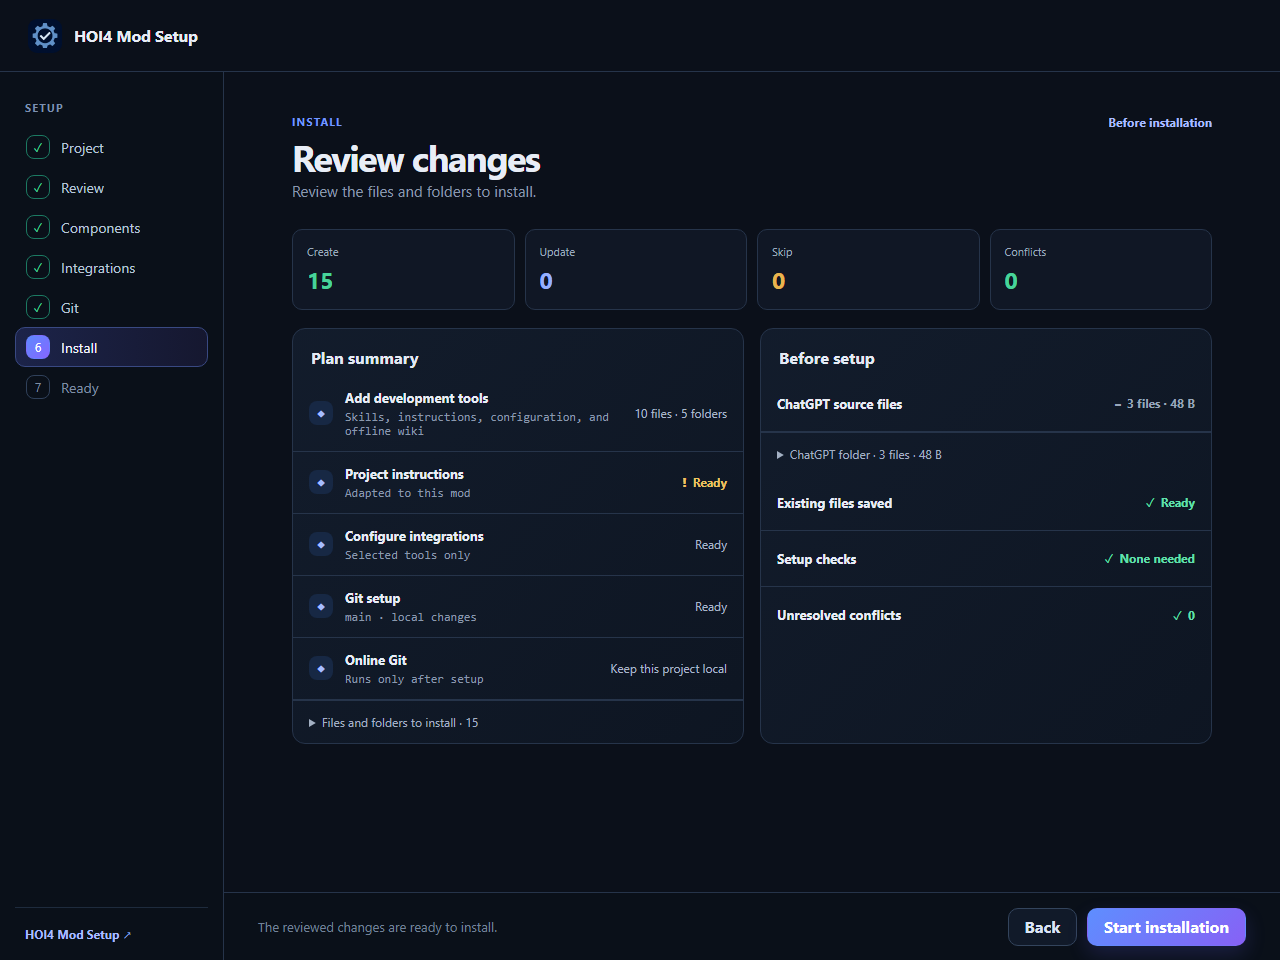
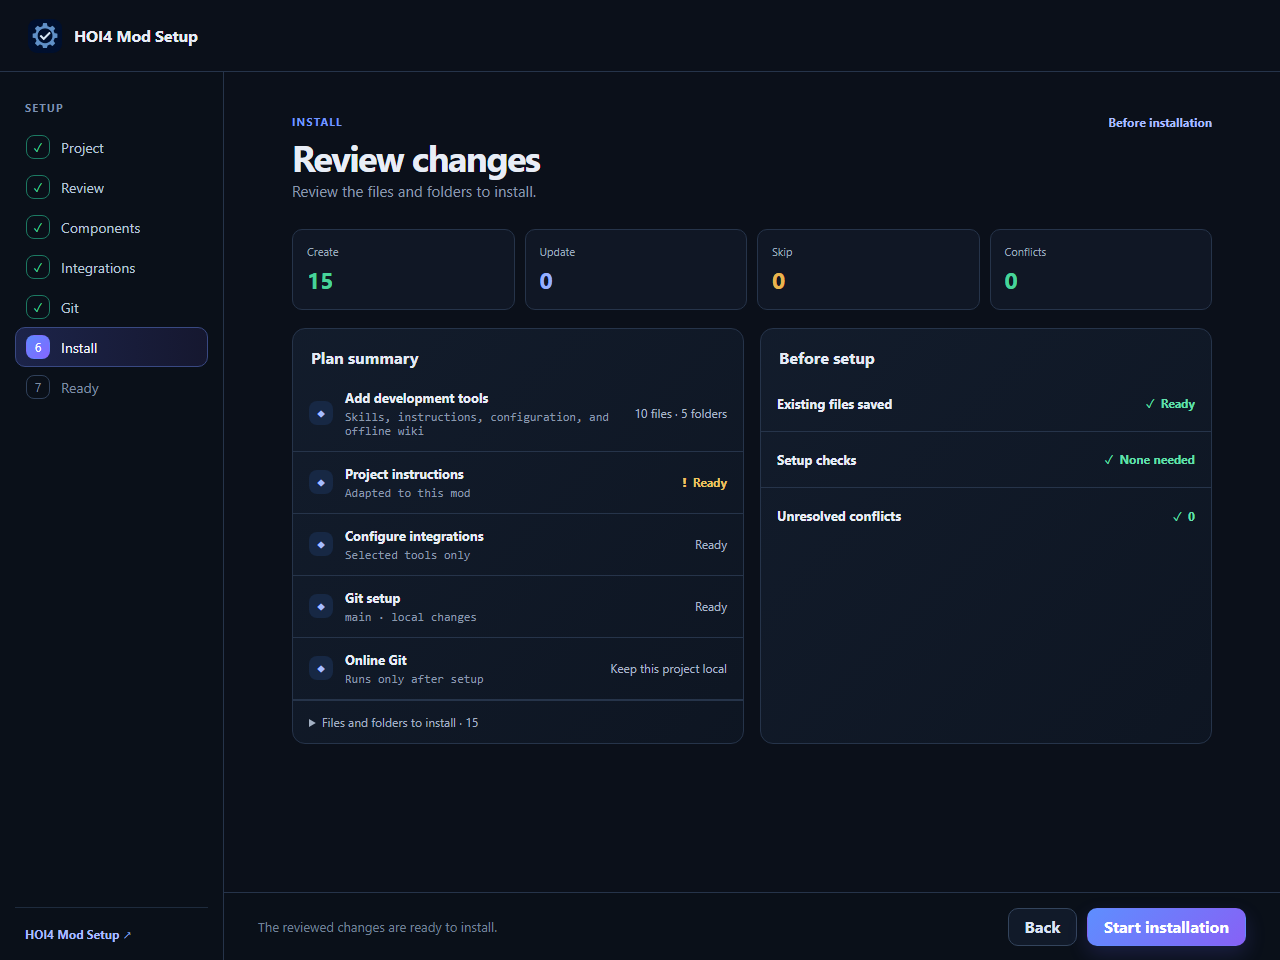
docs: public-readiness pass (security policy, changelog, screenshots)
- SECURITY.md names the enabled private reporting route and the supported
  version instead of pre-release wording
- the 0.7.0 changelog drops a duplicated entry and lists dependency updates last
- regenerate the public screenshots from the current UI

diff --git a/CHANGELOG.md b/CHANGELOG.md
@@ -6,7 +6,6 @@ HOI4 Mod Setup follows semantic versioning.
 
 ## 0.7.0 - 2026-10-25
 
-- Update `rustls-webpki`, `webpki-roots`, and `webpki-root-certs` (distrusted emSign intermediates) and `vite` 6.4.4 (`launch-editor` path check bypass on Windows), so `cargo audit` and `pnpm audit` pass again.
 - Fix first installs that kept asking to undo changes: when HOI4 Agent Tools is selected but no python.org Python is on the computer, Review changes now shows the missing requirement and how to fix it, with a **Check again** button, and blocks **Start installation** before any file is written. Previously the bootstrap failed after the files were applied, readiness blocked the lock, and the only recovery was **Undo changes**, which returned on every retry.
 - Explain an interrupted installation on the recovery screen: **What stopped setup** and the next step are visible without opening Details, and the message after **Undo changes** says the mod is as it was and what to change before trying again.
 - Keep an existing mod's own valid `descriptor.mod`, `thumbnail.png`, and `README.md` by default on its first import, instead of asking the user to compare their descriptor with a generated one. Invalid files and a thumbnail chosen in the app still go through conflict review.
@@ -28,7 +27,6 @@ HOI4 Mod Setup follows semantic versioning.
 - Fix Claude API setup analysis failing with an HTTP 400 about `minimum` and `maximum`: the schema sent to Anthropic leaves out the keywords its structured output does not support, and Setup still checks every reply against the full schema.
 - Add `hoi4_mod_setup::service`, a facade for server hosts: per-session scan, analysis, plan and approval state with no process-wide stores, an injected credential store, an explicit workspace root and state root, a public root-identity function, and a declared Node runtime. Desktop commands call the same gate code. `keyring` is now the default-on `os-keyring` feature, so a server can build without it and without `libdbus`. See `docs/39_service_facade.md`.
 - Fix exact restoration after a process stop during apply: new bytes are placed through a temporary file named for the transaction and operation (and for the lock), so rollback removes the `.hoi4ms-placing-*.tmp` file a hard stop left beside the destination instead of leaving an extra file in the project, and a retry after a stop during rollback replaces its own stale temporary. Directories that an operation created beside its destination and files outside the project root are not yet covered.
-- Add `hoi4_mod_setup::service`, a facade for server hosts: per-session scan, analysis, plan and approval state with no process-wide stores, an injected credential store, an explicit workspace root and state root, a public root-identity function, and a declared Node runtime. Desktop commands call the same gate code. `keyring` is now the default-on `os-keyring` feature, so a server can build without it and without `libdbus`. See `docs/39_service_facade.md`.
 - Move the plan builder behind `service::DefaultPlanBuilder` and a `SourceFetcher` seam so a server builds the same plans as the desktop from a caller-given state root, cache root and Node runtime. The desktop path is unchanged. See `docs/39_service_facade.md`.
 - Add a free setup assistant that needs no account: the app sends one structured request through the maintainer's relay to a free OpenRouter model, and it becomes the default once the relay is deployed. The maintainer's key stays a relay secret and never ships in the app or the web page.
 - Add OpenRouter as a setup assistant on desktop and web, with **Sign in with OpenRouter** (OAuth PKCE) or a pasted key. A free model is the default choice.
@@ -52,8 +50,7 @@ HOI4 Mod Setup follows semantic versioning.
 - Record generated text once in the installation lock instead of also as a byte array.
 - Bring the web edition close to the desktop app: context documents and images, a choice of the findings the assistant reads, image providers, portraits, and live testing, update, repair, change, and removal of an existing setup, merge previews and rename for changed files, readiness checks, a launcher file for existing mods, and a local model as the setup assistant.
 - Record the raw source hash in installation locks written by the web edition, so the desktop app can maintain them.
-
-Coding clients are never started by setup; client sign-in and in-client behavior beyond reading the documented files are not tested.
+- Update `rustls-webpki`, `webpki-roots`, and `webpki-root-certs` (distrusted emSign intermediates) and `vite` 6.4.4 (`launch-editor` path check bypass on Windows), so `cargo audit` and `pnpm audit` pass again.
 
 ## 0.6.3 - 2026-10-18
 

diff --git a/SECURITY.md b/SECURITY.md
@@ -4,7 +4,7 @@ HOI4 Mod Setup reads and writes development repositories, downloads workflow fil
 
 ## Reporting a vulnerability
 
-Use GitHub private vulnerability reporting when it is enabled for the repository. If it is unavailable, use the private security contact listed in the repository profile or release notes.
+Use [GitHub private vulnerability reporting](https://github.com/klimPaskov/HOI4-Mod-Setup/security/advisories/new) (the repository's **Security** tab, then **Report a vulnerability**). It is enabled, and only the maintainers can see the report.
 
 Do not open a public issue for:
 
@@ -22,11 +22,11 @@ Include a concise reproduction, affected version, platform, impact, and any safe
 
 ## Response expectations
 
-Maintainers should acknowledge a report, reproduce it in a private branch, classify affected releases, prepare a fix and regression test, and coordinate disclosure. Exact response timelines should be published once the maintainer team and support capacity are known.
+Maintainers acknowledge a report, reproduce it in a private branch, classify affected releases, prepare a fix and regression test, and coordinate disclosure with the reporter. The project is maintained by one person in their own time, so responses are best effort and no fixed timeline is promised.
 
 ## Supported versions
 
-Before the first stable release, only the latest published preview may receive security fixes. After stable release, the project should publish a support table here.
+Only the latest [stable release](https://github.com/klimPaskov/HOI4-Mod-Setup/releases/latest) receives security fixes. The app updates itself on start, so reporters should reproduce on the latest version first.
 
 ## Security requirements for contributions
 
